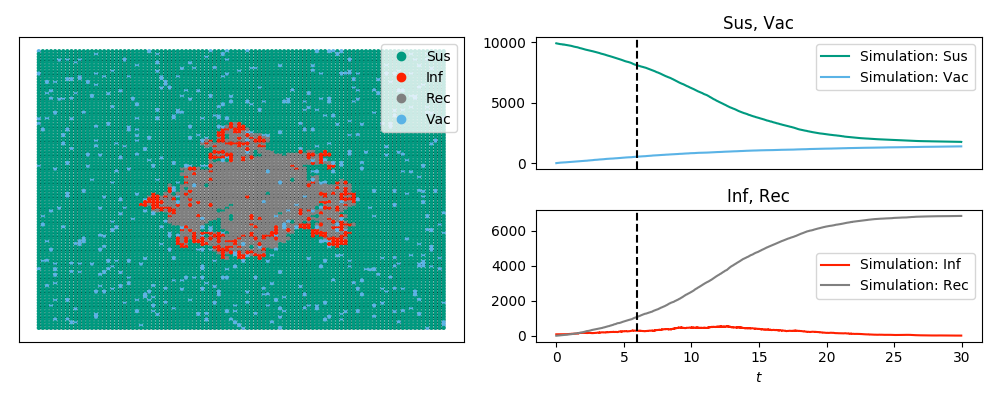
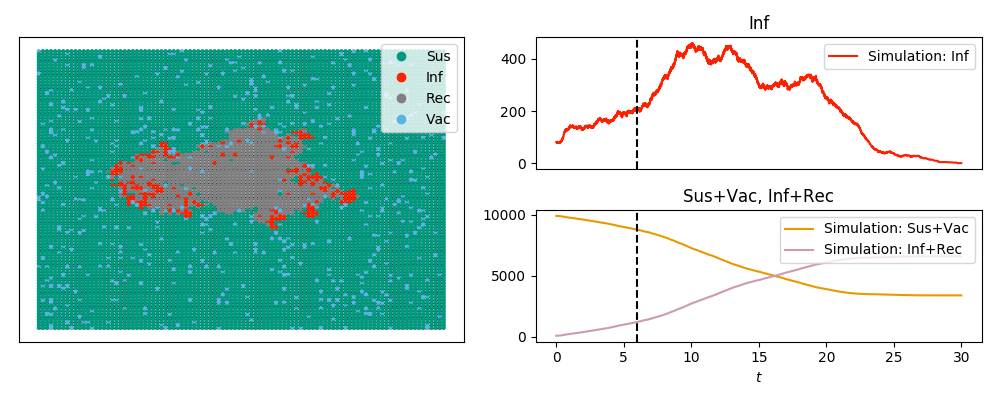
Update visualization to include things like 'S+I'.  Change documentation to handle visualization examples better.

diff --git a/EoN/simulation_investigation.py b/EoN/simulation_investigation.py
@@ -66,13 +66,16 @@ class Simulation_Investigation():
                 #print('tex=',self._tex_)
                 if self._tex_:
                     for status in statuses_to_plot:
-                        ax.plot(self._t_, self._D_[status], color = self.colordict[status], label=self.label+': ${}$'.format(status), **self.plt_kwargs)
+                        if status in self._D_:
+                            ax.plot(self._t_, self._D_[status], color = self.colordict[status], label=self.label+': ${}$'.format(status), **self.plt_kwargs)
                 else:
                     for status in statuses_to_plot:
-                        ax.plot(self._t_, self._D_[status], color = self.colordict[status], label=self.label+': {}'.format(status), **self.plt_kwargs)
+                        if status in self._D_:
+                            ax.plot(self._t_, self._D_[status], color = self.colordict[status], label=self.label+': {}'.format(status), **self.plt_kwargs)
             else:
                 for status in statuses_to_plot:
-                    ax.plot(self._t_, self._D_[status], color = self.colordict[status], **self.plt_kwargs)
+                    if status in self._D_:
+                        ax.plot(self._t_, self._D_[status], color = self.colordict[status], **self.plt_kwargs)
 
         def update_kwargs(self, **kwargs):
             self.plt_kwargs.update(kwargs)

diff --git a/setup.py b/setup.py
@@ -19,7 +19,7 @@ from distutils.core import setup
 
 setup(name='EoN',
       packages = ['EoN'], 
-      version='1.0.8rc3',  #http://semver.org/
+      version='1.0.8rc4',  #http://semver.org/
       description = 'Epidemics on Networks',
       author = 'Joel C. Miller, Istvan Z. Kiss, and Peter Simon',
       author_email = 'joel.c.miller.research@gmail.com',

diff --git a/docs/conf.py b/docs/conf.py
@@ -61,7 +61,7 @@ author = u'Joel Miller, Istvan Kiss, Peter Simon'
 # The short X.Y version.
 version = u'1.0.8'
 # The full version, including alpha/beta/rc tags.
-release = u'1.0.8rc3' 
+release = u'1.0.8rc4' 
 
 # The language for content autogenerated by Sphinx. Refer to documentation
 # for a list of supported languages.

diff --git a/EoN/__init__.py b/EoN/__init__.py
@@ -38,7 +38,7 @@ We start with a few useful auxiliary functions
 '''
 
 __author__ = "Joel C. Miller, Istvan Z. Kiss, and Peter Simon"
-__version__ = "1.0.8rc3"
+__version__ = "1.0.8rc4"
 
 
 #__all__ = 

diff --git a/docs/examples/SIRV_display.rst b/docs/examples/SIRV_display.rst
@@ -1,0 +1,78 @@
+SIRV display and animation example
+----------------------------------
+
+The code below looks at an SIRV epidemic (SIR + vaccination) and produces the image
+
+.. image:: SIRV_display.png
+    :width: 90 %
+    
+and the animation
+
+.. raw:: html 
+
+   <video controls src="../_static/SIRV_animate.mp4", width = 90%></video> 
+
+Note that the labels are in plain text rather than math mode (since ``tex=False``).
+Note also that we can plot ``'Sus'+'Vac'`` and similar time series using the
+commands here.
+
+
+
+
+If we use a model with other states than ``'S'``, ``'I'``, and ``'R'``, the default 
+colors aren't specified.  In this case we need to do a little bit more.
+
+Consider a model where the states are ``'Sus'``, ``'Inf'``, ``'Rec'``, or ``'Vac'``.  
+That is, an SIR model with vaccination.  We will use ``Gillespie_simple_contagion``
+for this.  I'm choosing the status names to be longer than one character to 
+show changes in the argument ``ts_plots`` stating what the time-series plots 
+should show.
+
+In this model, susceptible people have a rate of becoming vaccinated which is
+independent of the disease status.  Otherwise, it is just like the SIR disease
+in the previous example.  So the "spontaneous transitions" are ``'Suc'`` to 
+``'Vac'`` with rate ``0.01`` and ``'Inf'`` to ``'Rec'`` with rate ``1.0``.  
+The "induced transitions" are ``('Inf', 'Sus')`` to ``('Inf', 'Inf')`` with 
+rate ``2.0``.
+
+::
+
+    import networkx as nx
+    import EoN
+    import matplotlib.pyplot as plt
+    from collections import defaultdict
+    G = nx.grid_2d_graph(100,100) #each node is (u,v) where 0<=u,v<=99
+    #we'll initially infect those near the middle 
+    initial_infections = [(u,v) for (u,v) in G if 45<u<55 and 45<v<55]
+
+    H = nx.DiGraph()  #the spontaneous transitions
+    H.add_edge('Sus', 'Vac', rate = 0.01)
+    H.add_edge('Inf', 'Rec', rate = 1.0)
+    
+    J = nx.DiGraph()  #the induced transitions
+    J.add_edge(('Inf', 'Sus'), ('Inf', 'Inf'), rate = 2.0)
+    
+    IC = defaultdict(lambda:'Sus')
+    for node in initial_infections:
+        IC[node] = 'Inf'
+        
+    return_statuses = ['Sus', 'Inf', 'Rec', 'Vac']
+    
+    colordict = {'Sus': '#009a80','Inf':'#ff2000', 'Rec':'gray','Vac': '#5AB3E6'}
+    pos = {node:node for node in G}
+    tex = False
+    sim_kwargs = {'colordict':colordict, 'pos':pos, 'tex':tex}
+
+    sim = EoN.Gillespie_simple_contagion(G, H, J, IC, return_statuses, tmax=30, return_full_data=True, sim_kwargs=sim_kwargs)
+
+    ts, D = sim.summary()
+    newD = {'Sus+Vac':D['Sus']+D['Vac'], 'Inf+Rec' : D['Inf'] + D['Rec']}
+    new_timeseries = (ts, newD) 
+    sim.add_timeseries(new_timeseries, label = 'Simulation', colordict={'Sus+Vac':'#E69A00', 'Inf+Rec':'#CD9AB3'})
+
+    sim.display(6, node_size = 4, ts_plots=[['Inf'], ['Sus+Vac', 'Inf+Rec']])
+    plt.savefig('SIRV_display.png')
+
+    ani=sim.animate(ts_plots=[['Inf'], ['Sus+Vac', 'Inf+Rec']], node_size = 4)  
+    ani.save('SIRV_animate.mp4', fps=5, extra_args=['-vcodec', 'libx264'])
+    

diff --git a/docs/Examples.rst b/docs/Examples.rst
@@ -128,19 +128,36 @@ are given here.
    Figure 9.5 <examples/fig9p5.rst>
 
 
+Section to cross-reference
+--------------------------
+
+
 Additional Examples
 -------------------
+
+
+.. _visualization:
+
 
 Visualizing or animating disease spread
 ^^^^^^^^^^^^^^^^^^^^^^^^^^^^^^^^^^^^^^^
 
-
 We can visualize snapshots or animations of disease spread in a network.
+For these examples, we'll take a 100x100 grid of nodes [each node is (i,j)]
+connected to their 4 nearest neighbors (except the nodes on the edges).  
+This isn't the most realistic network, but it is a good example for showing 
+the automatic plotting tools.
 
 .. toctree:: 
    :maxdepth: 1
    
-   Visualizing disease spread in a lattice network <examples/Simulation_Investigation.rst>
+   Visualizing a snapshot of SIS disease spread in the network <examples/SIS_display.rst>
+   Visualizing an animation of SIR disease spread in the network <examples/SIR_display.rst>
+   Visualizing non-SIS/SIR processes (SIRV) spreading in the network <examples/SIRV_display.rst>
+   
+The last example shows how we might plot things like ``'I'+'R'`` or other combinations of
+the data.
+   
 
 
 Non-uniform infectiousness
@@ -173,7 +190,7 @@ for networkx 2.x and 1.x).
 .. _simple-contagion-section:
 
 Non-SIS/SIR processes with  `Gillespie_simple_contagion <functions/EoN.Gillespie_simple_contagion.html>`_ 
-^^^^^^^^^^^^^^^^^^^^^^^^^^^^^^^^^^^^^^^^^^^^^^^^^^^^^^^^^^^^^^^^^^^^^^^^^^^^^^^^^^^^^^^^^^^
+^^^^^^^^^^^^^^^^^^^^^^^^^^^^^^^^^^^^^^^^^^^^^^^^^^^^^^^^^^^^^^^^^^^^^^^^^^^^^^^^^^^^^^^^^^^^^^^^^^^^^^^^^
 
 The default Gillespie and Event-driven algorithms assume SIS or SIR dynamics.
 However, you may want something else, such as SEIR or SIRS or maybe more exotic

diff --git a/docs/examples/SIS_display.rst b/docs/examples/SIS_display.rst
@@ -1,0 +1,44 @@
+SIS display example
+-------------------
+The code below produces a snapshot of an SIS epidemic with the timeseries:
+
+.. image:: SIS_2dgrid.png
+    :width: 90 %
+
+and without the timeseries:
+
+.. image:: SIS_2dgrid_no_time_series.png
+    :width: 50 %
+
+
+We start with an SIS epidemic in a 100x100 grid with a few nodes infected in 
+the middle.  We will display the epidemic at time 6, with and without the
+time series included.
+
+::
+
+    import networkx as nx
+    import EoN
+    import matplotlib.pyplot as plt
+    G = nx.grid_2d_graph(100,100) #each node is (u,v) where 0<=u,v<=99
+    #we'll initially infect those near the middle 
+    initial_infections = [(u,v) for (u,v) in G if 45<u<55 and 45<v<55]
+    sim = EoN.fast_SIS(G, 1.0, 1.0, initial_infecteds = initial_infections, 
+                   return_full_data=True, tmax = 40)
+    pos = {node:node for node in G}
+    sim.set_pos(pos)
+    sim.display(6, node_size = 4) #display time 6
+    plt.savefig('SIS_2dgrid.png')
+
+
+If we changed the ``display`` command to have ``ts_plots=False`` or 
+``ts_plots = []`` we get just the network.
+
+::
+
+    plt.clf()
+    sim.display(6, node_size = 4, ts_plots=[]) #display time 6
+    plt.savefig('SIS_2dgrid_no_time_series.png')
+    
+Animations are shown in the next example.
+

diff --git a/docs/examples/SIR_display.rst b/docs/examples/SIR_display.rst
@@ -1,0 +1,33 @@
+SIR Animation Example
+---------------------
+
+The code below produces an animation of an SIR epidemic:
+
+.. raw:: html 
+
+   <video controls src="../_static/SIR_2dgrid.mp4", width = 90%></video> 
+
+
+You may need to install additional software 
+for this to work and modify `extra_args` appropriately.  The commands below 
+work on a mac with ffmpeg installed.  The commands below also show an alternate
+way to specify the position of nodes passing `pos` through `fast_SIR` to be
+used when generating the simulation_investigation object.
+
+::
+
+    import networkx as nx
+    import EoN
+    import matplotlib.pyplot as plt
+    G = nx.grid_2d_graph(100,100) #each node is (u,v) where 0<=u,v<=99
+    #we'll initially infect those near the middle 
+    initial_infections = [(u,v) for (u,v) in G if 45<u<55 and 45<v<55]
+    pos = {node:node for node in G}
+    sim_kwargs = {'pos': pos}    
+    sim = EoN.fast_SIR(G, 2.0, 1.0, initial_infecteds = initial_infections, 
+                   tmax = 40, return_full_data=True, sim_kwargs = sim_kwargs)
+    sim.set_pos(pos)
+    ani=sim.animate(ts_plots=['I', 'SIR'], node_size = 4)  
+    ani.save('SIR_2dgrid.mp4', fps=5, extra_args=['-vcodec', 'libx264'])
+
+

diff --git a/docs/EoN.rst b/docs/EoN.rst
@@ -165,7 +165,22 @@ This includes automated generation of animations.
 This is particularly useful if we want to look at time series or at animations
 of the network as the disease spreads.
 
-Some :ref:`examples <Simulation_Investigation>` are provided.
+When EoN performs a simulation with ``return_full_data`` set to ``True``, it returns
+a Simulation_Investigation object.  At it's core, this has the data about when
+each node changed status and what its new status became.  This allows us to 
+generate plots of the network at any given instance in time and to produce 
+animations.
+
+The basic display produced by a Simulation_Investigation object shows the 
+network at a given snapshot in time on the left, and on the right it shows the
+time series of S, I, and (if SIR) R.  It has the option to add additional 
+curves that might have been calculated by an analytic model, or perhaps
+another simulation.
+
+In general, any of the dynamic simulations will produce a Simulation_Investigation
+object if we pass it ``return_full_data = True``.  
+
+Some examples appear in section :ref:`visualization`.
 
 Quick List
 ^^^^^^^^^^

diff --git a/docs/GettingStarted.rst b/docs/GettingStarted.rst
@@ -4,7 +4,7 @@ Getting Started
 
 Installation
 ------------
-You can install **EoN** version 1.0.7 with pip
+You can **install EoN version 1.0.7** with pip
 
 ::
 
@@ -20,8 +20,9 @@ version available through pip (1.0.7).  The easiest way is
     pip install EoN
 
 
-The documentation provided here is for version 1.0.8rc3 which is on GitHub.  
-You can clone or download the Github version at 
+The documentation provided here is for version 1.0.8rc4 which is on GitHub.  
+
+To **install EoN version 1.0.8rc4** You can clone or download the Github version at 
 https://github.com/springer-math/Mathematics-of-Epidemics-on-Networks.  
 Then just move into the main directory and run
 

diff --git a/docs/Changes.rst b/docs/Changes.rst
@@ -1,6 +1,13 @@
 Changes from v 1.0
 ==================
 
+New in v 1.0.8rc4
+-----------------
+    
+    The ``Simulation_Investigation`` code now handles plotting things like
+    ``'S+V'`` if we add a time series appropriately.  The last example of
+    :ref:`visualization` shows this.
+    
 New in v 1.0.8rc3
 -----------------
 
